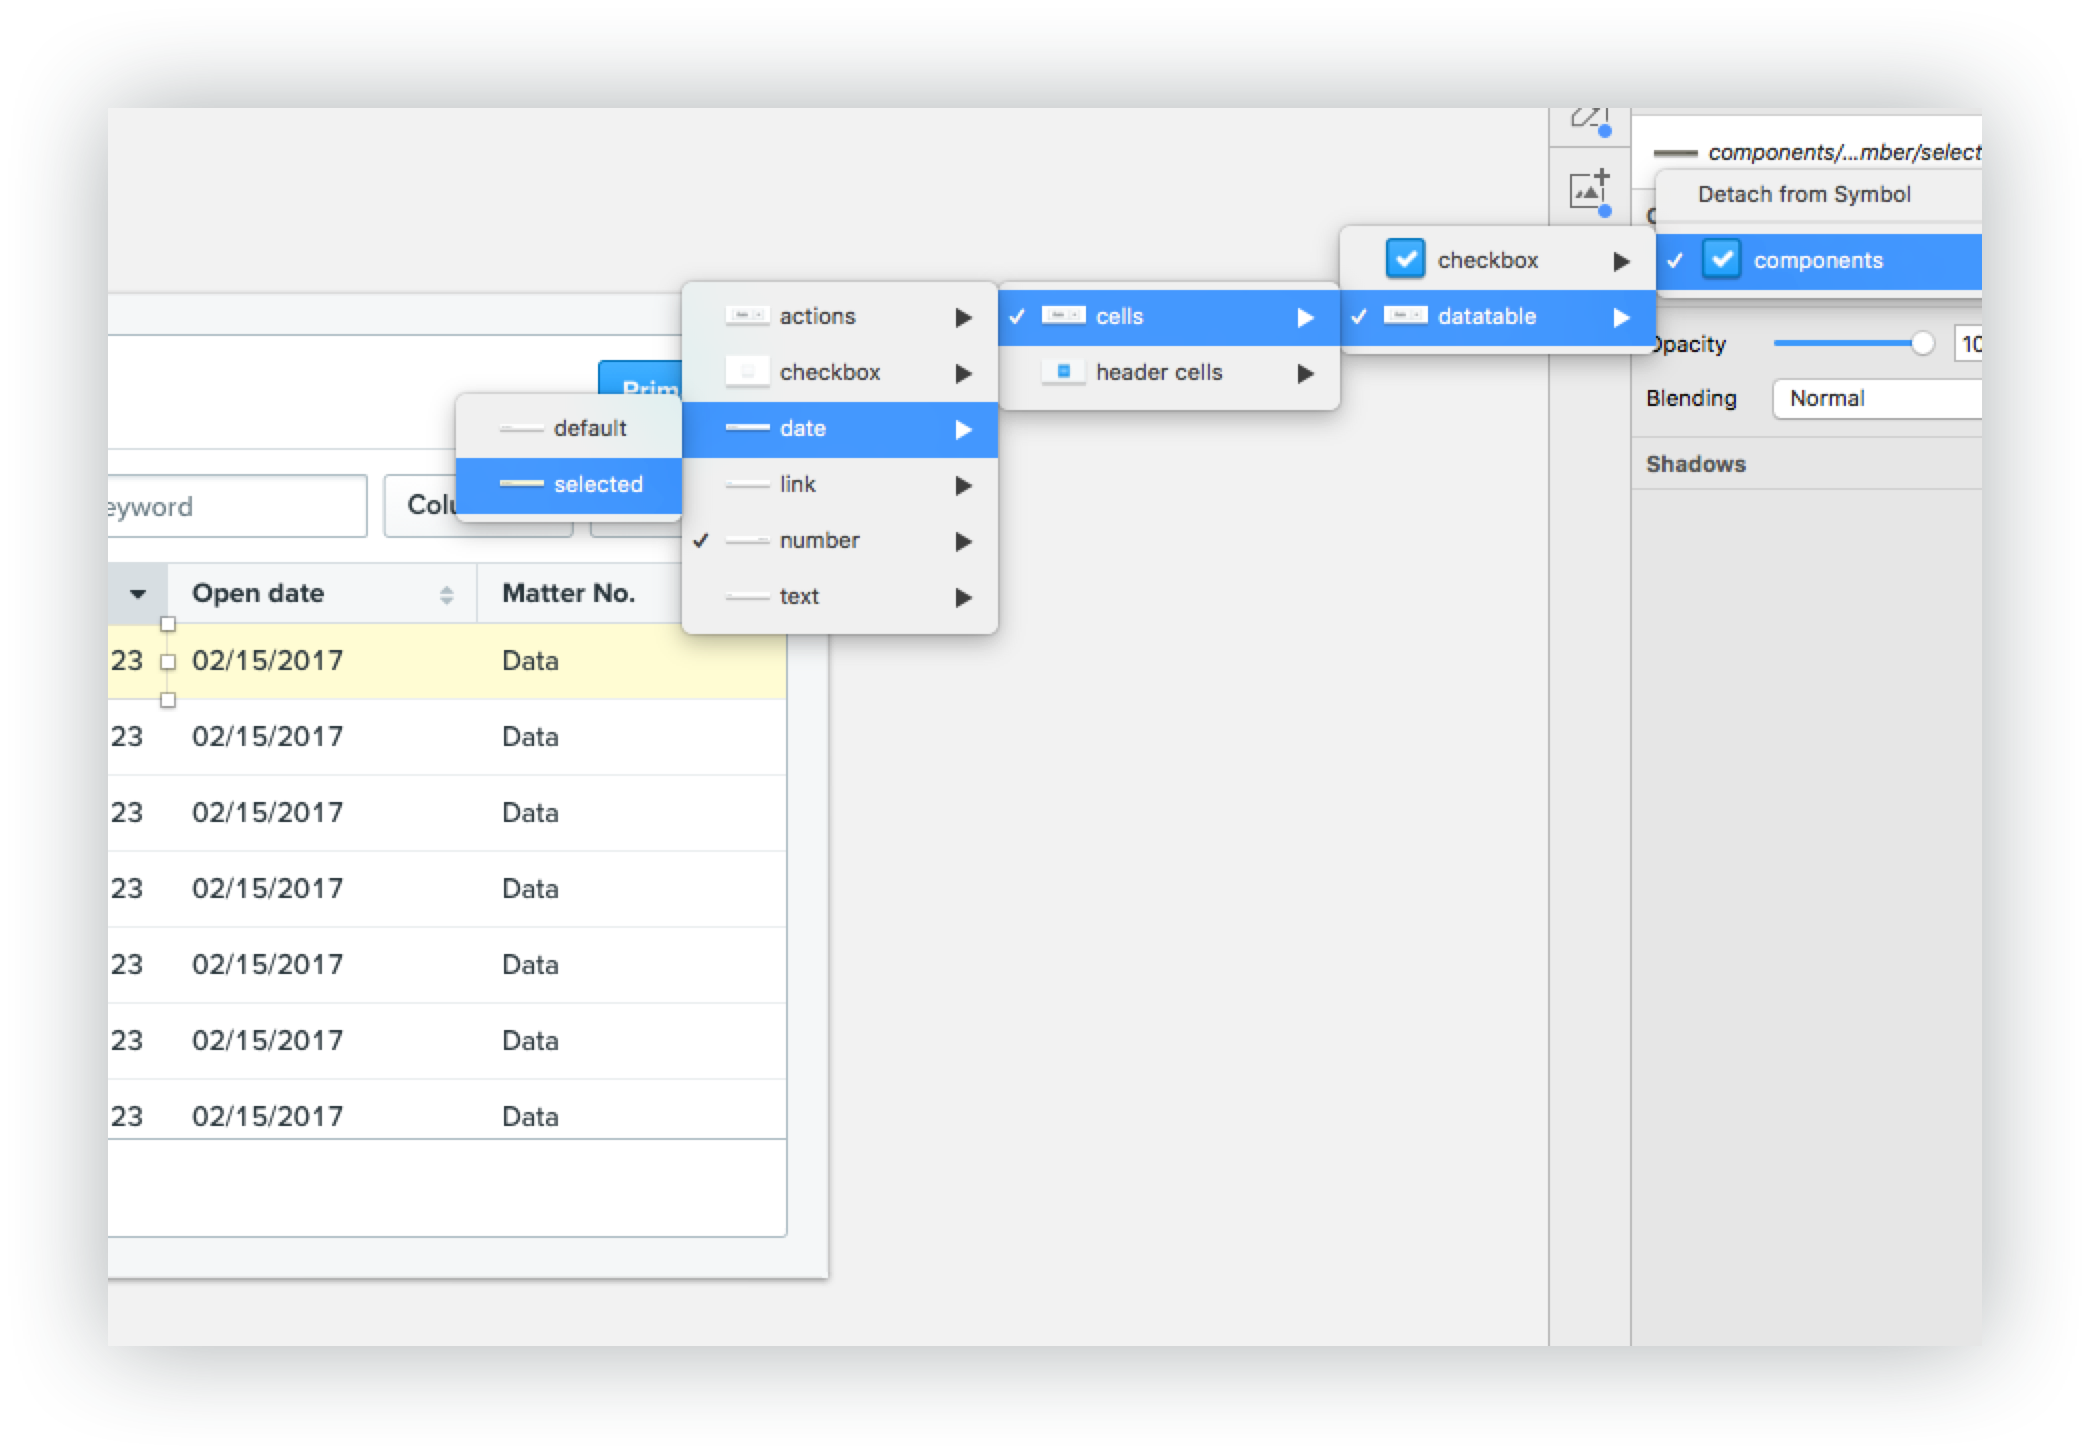
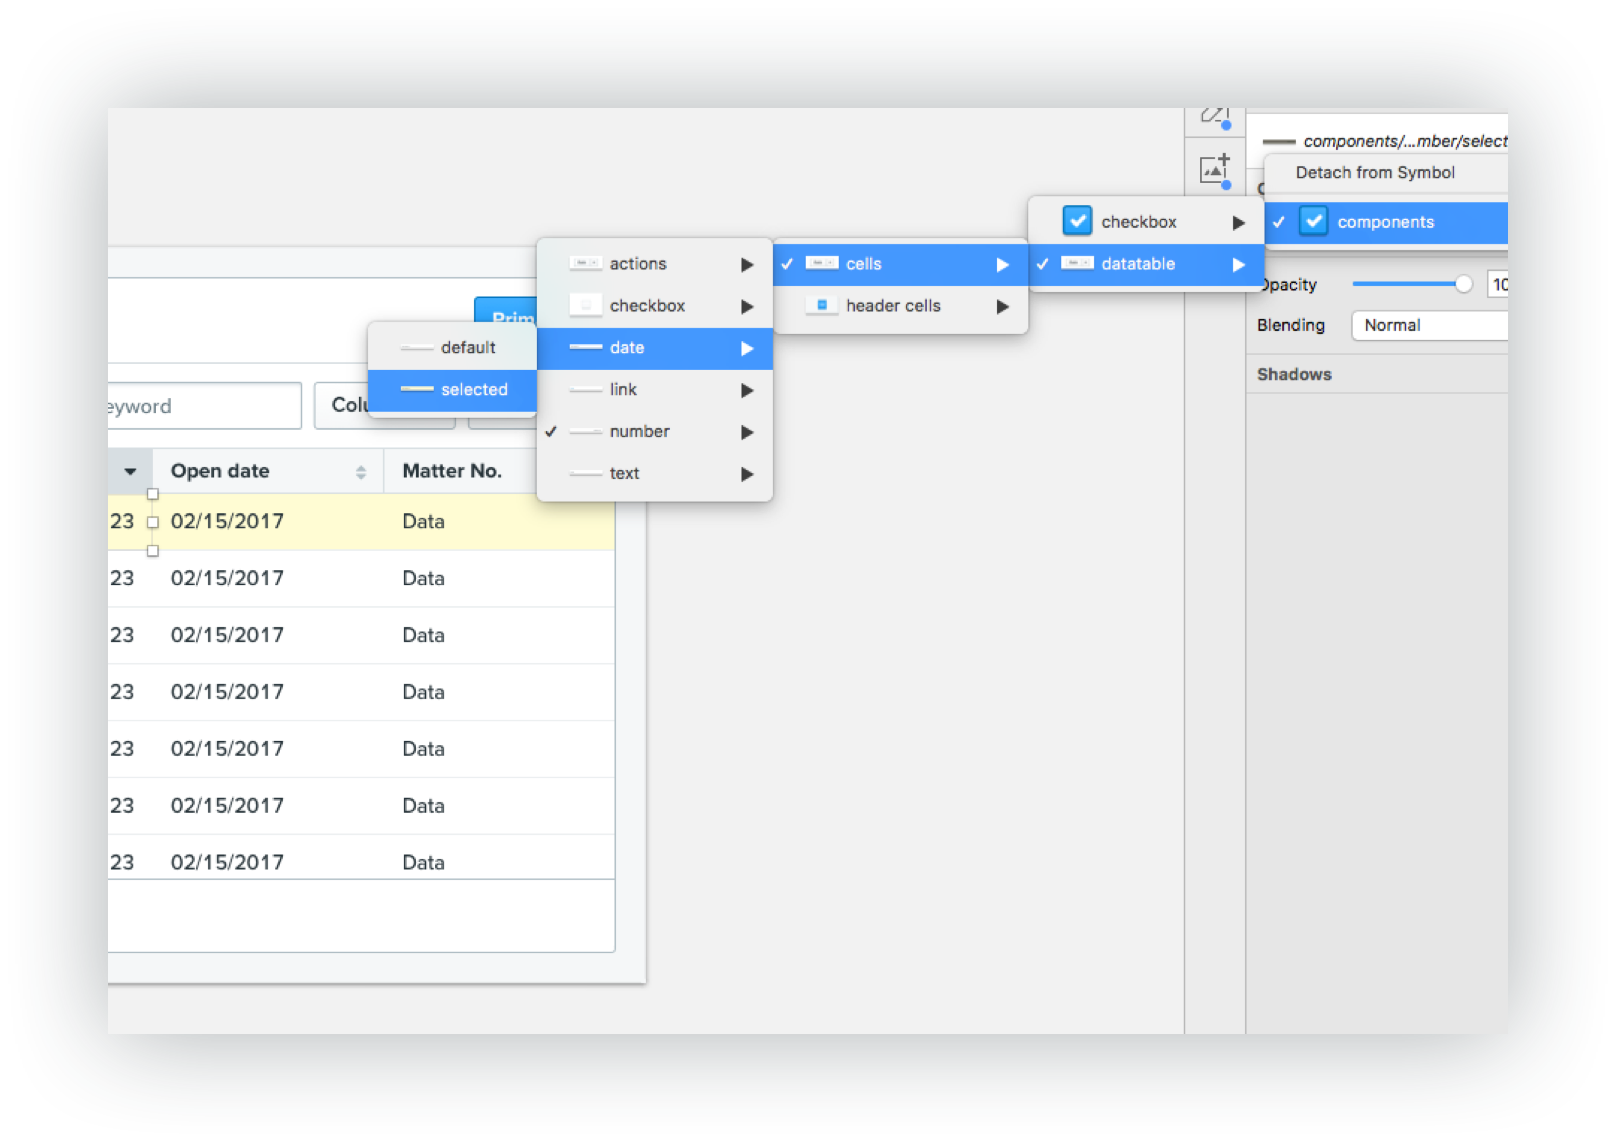
Image updates

diff --git a/README.md b/README.md
@@ -21,7 +21,9 @@ cd ~/Library/Application\ Support/com.bohemiancoding.sketch3/Templates/ && git c
 ### Download the source
 
 Download the source in the "Clone or download" menu.
-![Download the source](images/download-source.png)
+
+<img src="images/download-source.png" width="546">
+
 Open the file in sketch and save it as a template.<br>
 Now create a document using "New from template".
 
@@ -39,4 +41,4 @@ Links to essential plugins will go here.
 * Symbol organizer
 
 ## Symbol overrides
-![Symbol overrides](images/symbol-overrides.png)
+<img src="images/symbol-overrides.png" width="808">
